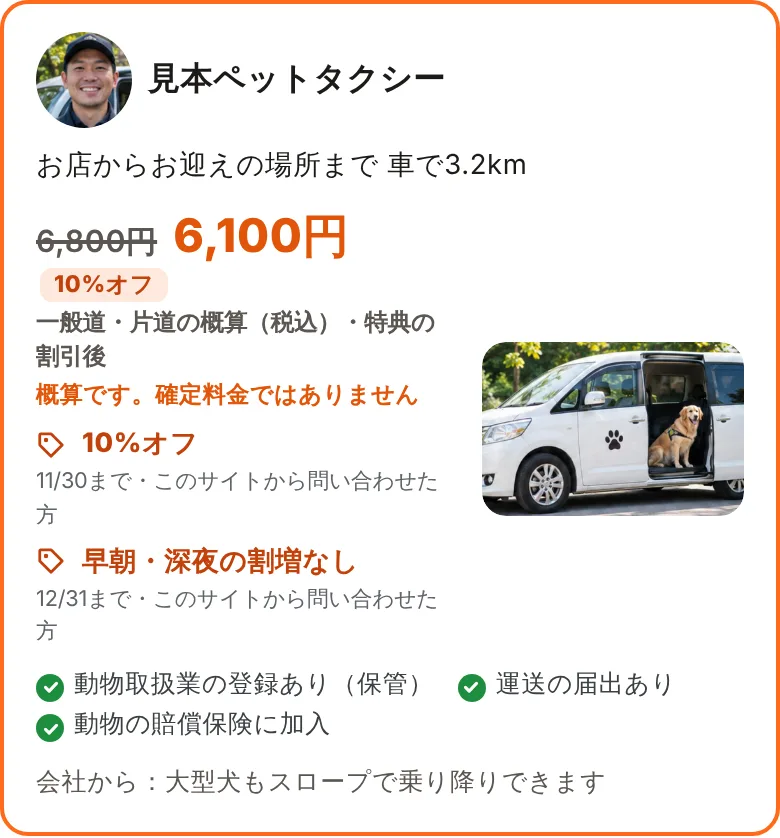
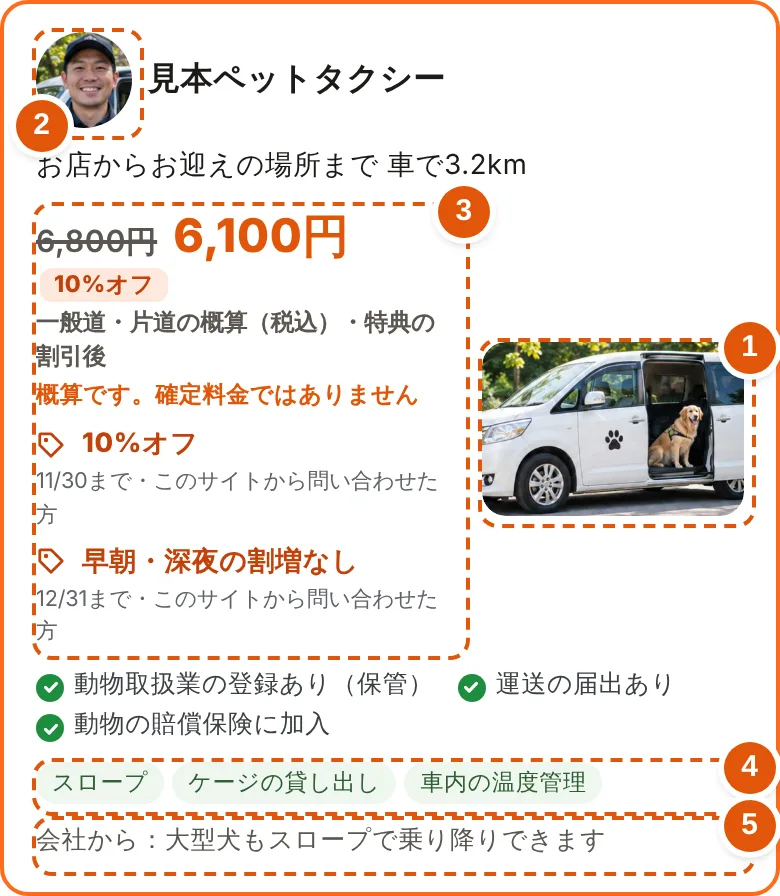
[C] 掲載情報：特典ごとに期間・大事な文を強調・カードの見本に番号の印（各項目の見出しと対応） (#564)
Claude-Session: https://claude.ai/code/session_01Tf5d8bmUrdGt6LBNfHhUyj

diff --git a/partner/listing/index.html b/partner/listing/index.html
@@ -40,7 +40,7 @@
 <main>
 <section class="area-hero"><div class="wrap"><h1>掲載の決まり<small style="display:block;font-size:.95rem;color:var(--o-d)">提携しているペットタクシー会社さま向け</small></h1><p class="lede">掲載情報のページで足せるものと、載せられないものをまとめました。お客さまが安心してくらべられるように、どの会社さまにも同じ決まりをお願いしています。</p></div></section>
 <section><div class="wrap prose terms">
-<h2>ご利用の条件に合う会社さま</h2><ul><li>当サイトと提携している会社さまだけがお使いいただけます。</li><li>入るときは、ご登録のメールアドレスにログインのリンクをお送りします（24時間だけ使えます。パスワードはいりません）。リンクはほかの方に渡さないでください。</li><li>お送りいただいた内容は、ご登録のメールアドレスにもお知らせします。お心当たりのない内容があれば、そのメールにご返信ください。</li></ul><h2>載せられるもの</h2><ul><li><b>写真</b>：5枚まで（お送りいただけるのは1日10枚まで）。車の外・車の中・ケージや設備・運転手・お店から種類を選んでお送りください。運転手の写真は正方形で、会社名の横に丸く出ます（写っている方ご本人の了解が必要です）。</li><li><b>特典</b>：割引は「◯%オフ（5〜30%）」か「◯円オフ（100〜5,000円）」のどちらか1つ。そのほかに「早朝・深夜の割増なし」「ケージの貸し出し無料」「前日までのキャンセル無料」をチェックで選べます。期間（いつから・いつまで）を入れてください。カードには「◯/◯まで」と出て、過ぎると自動で消えます。</li><li><b>設備・できること</b>：ケージの貸し出し・スロープ・担架・ペットシーツなどから選んでください。</li><li><b>お支払い方法</b>：現金・クレジットカード・電子マネー・QRコード決済・銀行振込から、使えるものを選んでください。運営者が確かめてから表示を直します。</li><li><b>許可・資格・保険</b>：動物取扱業の登録・運送の届出・動物の賠償保険・資格から選んでください。登録・届出・許可は番号が必要です。運営者が番号を確かめてから表示します。</li><li><b>ひとこと</b>：60字までです。</li></ul><h2>ここでは受け付けないもの</h2><ul><li>一緒に乗れる人数・頭数・お迎えの範囲・営業時間など、お客さまの候補に出すかどうかを決める内容は、このページでは変えられません。変わったときは運営者にメールでお知らせください。</li></ul><h2>特典のお約束</h2><ul><li>特典は、当サイトから問い合わせたお客さまだけのものです。お返事の確定料金に特典を入れてからお送りください。</li><li>終わりの日を過ぎると自動で消えます。途中でやめるときは、掲載情報のページで「なし」にしてください。</li></ul><h2>載せられないもの</h2><ul><li>電話番号・LINEのID・SNS・メールアドレス・ほかの予約サイトへのリンク（写真の中の文字や車体の番号もふくみます）</li><li>「地域最安」「No.1」「日本一」などのくらべる言い方や、根拠をお示しいただけない数字（実績◯件・24時間など）</li><li>写真やひとことの中で、もとの値段に線を引くような見せ方、期限のない特典、「◯円から」「◯円まで」（割引のある特典は、このサイトが公式の料金表をもとにした概算に線を引いて、割引後の概算を並べて表示します）</li><li>ほかの会社さまの名前、口コミの書き写し、病気が治る・安全を約束するような言い方</li><li>ペットを荷物のように見せる写真や言い方</li><li>ほかの方が撮った写真・素材集の写真・AIで作った写真、ご本人の了解のない方の顔（顔が写ってよいのは「運転手」の写真だけです）</li><li>ナンバープレートが読める写真</li></ul><h2>写真の決まり</h2><ul><li>ご自身（自社）で撮った、実際の車・設備・お店の写真をお送りください。送るときに「載せる権利があります」にチェックしていただきます。</li><li>スマホで撮った写真を、そのままお送りください。大きさや形はこちらで合わせます（カードの形に切り抜いた見本をお見せし、位置は動かせます。撮った場所などの情報は消えます）。車・車の中・お店はスマホを横向きに、運転手は縦のまま顔が真ん中になるように撮ってください。LINEなどで受け取った写真やスクリーンショットは小さくて使えないことがあります。</li><li>1枚めは「車の外」がおすすめです。カードの最初に出ます。昼の明るい場所で、背景にほかの車・人・看板が入らないように撮ってください。</li><li>明るさの調整はかまいません。文字やスタンプを入れたもの、形を変える加工はご遠慮ください。</li></ul><h2>確かめてから公開します</h2><ul><li>お送りいただいた内容は、運営者が確かめてから候補のカードに出します。</li><li>決まりに合わないときは、掲載情報のページの「審査の状況」に理由を出します。直してもう一度お送りください。</li><li>提携が終わったときや、事実と違うことがわかったときは、掲載をやめることがあります。</li></ul>
+<h2>ご利用の条件に合う会社さま</h2><ul><li>当サイトと提携している会社さまだけがお使いいただけます。</li><li>入るときは、ご登録のメールアドレスにログインのリンクをお送りします（24時間だけ使えます。パスワードはいりません）。リンクはほかの方に渡さないでください。</li><li>お送りいただいた内容は、ご登録のメールアドレスにもお知らせします。お心当たりのない内容があれば、そのメールにご返信ください。</li></ul><h2>載せられるもの</h2><ul><li><b>写真</b>：5枚まで（お送りいただけるのは1日10枚まで）。車の外・車の中・ケージや設備・運転手・お店から種類を選んでお送りください。運転手の写真は正方形で、会社名の横に丸く出ます（写っている方ご本人の了解が必要です）。</li><li><b>特典</b>：「◯%オフ（5〜30%）」「◯円オフ（100〜5,000円）」「早朝・深夜の割増なし」「ケージの貸し出し無料」「前日までのキャンセル無料」から選び、特典ごとに期間（いつから・いつまで）を入れてください。カードには「◯/◯まで」と出て、過ぎると自動で消えます。</li><li><b>設備・できること</b>：ケージの貸し出し・スロープ・担架・ペットシーツなどから選んでください。</li><li><b>お支払い方法</b>：現金・クレジットカード・電子マネー・QRコード決済・銀行振込から、使えるものを選んでください。運営者が確かめてから表示を直します。</li><li><b>許可・資格・保険</b>：動物取扱業の登録・運送の届出・動物の賠償保険・資格から選んでください。登録・届出・許可は番号が必要です。運営者が番号を確かめてから表示します。</li><li><b>ひとこと</b>：60字までです。</li></ul><h2>ここでは受け付けないもの</h2><ul><li>一緒に乗れる人数・頭数・お迎えの範囲・営業時間など、お客さまの候補に出すかどうかを決める内容は、このページでは変えられません。変わったときは運営者にメールでお知らせください。</li></ul><h2>特典のお約束</h2><ul><li>特典は、当サイトから問い合わせたお客さまだけのものです。お返事の確定料金に特典を入れてからお送りください。</li><li>終わりの日を過ぎると自動で消えます。途中でやめるときは、掲載情報のページで「なし」にしてください。</li></ul><h2>載せられないもの</h2><ul><li>電話番号・LINEのID・SNS・メールアドレス・ほかの予約サイトへのリンク（写真の中の文字や車体の番号もふくみます）</li><li>「地域最安」「No.1」「日本一」などのくらべる言い方や、根拠をお示しいただけない数字（実績◯件・24時間など）</li><li>写真やひとことの中で、もとの値段に線を引くような見せ方、期限のない特典、「◯円から」「◯円まで」（割引のある特典は、このサイトが公式の料金表をもとにした概算に線を引いて、割引後の概算を並べて表示します）</li><li>ほかの会社さまの名前、口コミの書き写し、病気が治る・安全を約束するような言い方</li><li>ペットを荷物のように見せる写真や言い方</li><li>ほかの方が撮った写真・素材集の写真・AIで作った写真、ご本人の了解のない方の顔（顔が写ってよいのは「運転手」の写真だけです）</li><li>ナンバープレートが読める写真</li></ul><h2>写真の決まり</h2><ul><li>ご自身（自社）で撮った、実際の車・設備・お店の写真をお送りください。送るときに「載せる権利があります」にチェックしていただきます。</li><li>スマホで撮った写真を、そのままお送りください。大きさや形はこちらで合わせます（カードの形に切り抜いた見本をお見せし、位置は動かせます。撮った場所などの情報は消えます）。車・車の中・お店はスマホを横向きに、運転手は縦のまま顔が真ん中になるように撮ってください。LINEなどで受け取った写真やスクリーンショットは小さくて使えないことがあります。</li><li>1枚めは「車の外」がおすすめです。カードの最初に出ます。昼の明るい場所で、背景にほかの車・人・看板が入らないように撮ってください。</li><li>明るさの調整はかまいません。文字やスタンプを入れたもの、形を変える加工はご遠慮ください。</li></ul><h2>確かめてから公開します</h2><ul><li>お送りいただいた内容は、運営者が確かめてから候補のカードに出します。</li><li>決まりに合わないときは、掲載情報のページの「審査の状況」に理由を出します。直してもう一度お送りください。</li><li>提携が終わったときや、事実と違うことがわかったときは、掲載をやめることがあります。</li></ul>
 <p class="small">2026年11月15日 制定</p>
 <p><a href="/partner/">提携のご案内にもどる</a>・<a href="/partner/terms/">提携規約</a></p>
 </div></section>

diff --git a/tools/partner_listing.py b/tools/partner_listing.py
@@ -10,7 +10,7 @@ LISTING = [
     ]),
     ("載せられるもの", [
         ("写真", "5枚まで（お送りいただけるのは1日10枚まで）。車の外・車の中・ケージや設備・運転手・お店から種類を選んでお送りください。運転手の写真は正方形で、会社名の横に丸く出ます（写っている方ご本人の了解が必要です）。"),
-        ("特典", "割引は「◯%オフ（5〜30%）」か「◯円オフ（100〜5,000円）」のどちらか1つ。そのほかに「早朝・深夜の割増なし」「ケージの貸し出し無料」「前日までのキャンセル無料」をチェックで選べます。期間（いつから・いつまで）を入れてください。カードには「◯/◯まで」と出て、過ぎると自動で消えます。"),
+        ("特典", "「◯%オフ（5〜30%）」「◯円オフ（100〜5,000円）」「早朝・深夜の割増なし」「ケージの貸し出し無料」「前日までのキャンセル無料」から選び、特典ごとに期間（いつから・いつまで）を入れてください。カードには「◯/◯まで」と出て、過ぎると自動で消えます。"),
         ("設備・できること", "ケージの貸し出し・スロープ・担架・ペットシーツなどから選んでください。"),
         ("お支払い方法", "現金・クレジットカード・電子マネー・QRコード決済・銀行振込から、使えるものを選んでください。運営者が確かめてから表示を直します。"),
         ("許可・資格・保険", "動物取扱業の登録・運送の届出・動物の賠償保険・資格から選んでください。登録・届出・許可は番号が必要です。運営者が番号を確かめてから表示します。"),

diff --git a/AGENTS.md b/AGENTS.md
@@ -87,7 +87,7 @@
 - **提携の申し込みフォームは手間を少なく**（Nori 2026-11-10「ただ面倒なだけ」「フリーアンサーをできるだけなくす」「回答の手間をできるだけ減らす」「料金の目安を出すみたいな文言もいらない」）：選ぶ欄はタップ1回のボタン（`pt_sel`・`pt_chk`）、自由記入はできるだけ置かない、なぜ聞くかの説明は書かない。必ず答えていただくのは会社名・お名前・メール・お店の場所（候補から選ぶ）・お迎えの範囲（km）・曜日・時間・料金のうかがい方（料金表のURLなら料金の質問はとばせる）・「そのほか」（ホームページ・出発できるまで・往復と長い距離の料金・許可・資格・動物取扱業の登録番号）。Nori 2026-11-10「わかればの欄も必須のほうがいい」。定額・料金の補足・ほかに伝えたいことの自由記入だけ「あれば」。控えのメール欄は「いみがわからない」でなくした。お迎えの範囲は「お店から◯kmまで」（5〜100km）から必ず選んでいただき、「もっと遠くても行く」のような範囲の決まらない答えは置かない（Nori 2026-11-12「ちゃんと対象エリアが決まるように設計して」）。行き先は「お迎えの都道府県の中だけ／距離に上限がある／全国どこへでも行ける」。お迎えできる都道府県はお店の場所と範囲から自動で選ぶ。動きは `tools/partner_form.js`。提携の返事では、料金表を読んで入れ、割増のところだけ会社に確かめる（Nori 2026-11-10「返信は割り増しのところだけ確認してあとは確認なしでいい」）。
 - **会社にメールを送る直前に、そのスレッドの最新のやりとりを読み直す**（Nori 2026-11-12「今後、ちゃんと確認することをルールにして」）：Nori さんが自分で返信していることがあるので、送る直前に、Nori さんが送ったものも含めて最新を読み、答え済みのことや重なる内容は削ってから送る。Mac に送信を頼むときも同じ指示を入れる。
 - **提携の確認ページ**（Nori 2026-11-14「事業者のサイトの内容を入れた状態のフォームを送る」）：`https://pet.shiokonbu.com/go/?a=pconf&t=<見本のリンクと同じ合言葉>`（`pconfUrl_`）を開くと、`booking/Code.gs` の `PCONF` に入れた公式サイトの内容（サイトより／ご確認ください／入力してください の印つき）と料金の例が出て、会社が直して送る。答えは予約シートの「提携の確認」タブと運営者へのメールに残すだけで、提携先シートは書き換えない（受付を始めるのは運営者が確かめてから）。いまはふわふわペットタクシー（D5598693）だけ。設計は 2026-11-14 の「事業者フォームの設計し直し案」。
-- **掲載情報の追加ページ**（Nori 2026-11-15「事業者側に、情報を追加的に入れてもらえる画面」「なんでも載せられるようにはしない」「いっかいすすめてみて」）：提携している会社（`OPEN_PARTNERS`、`PINFO_STOP` に入れた会社は除く）だけが、写真（5枚まで・1日10枚まで）・特典（「◯%オフ」「◯円オフ」の欄のどちらか1つと、チェックで選ぶ「早朝・深夜の割増なし」「ケージの貸し出し無料」「前日までのキャンセル無料」（`PINFO_OFFER_X`）、期間はいつから・いつまで。Nori 2026-11-15「わかりやすいカタチ」「何%オフの欄、何円オフの欄を作っておいてあとは期間を入れられるように」。`PINFO_OFFERS`）・設備・お支払い方法・許可や資格（登録・届出・許可は番号が必須）・ひとこと（60字）を送れる（臨時のお休みは Nori 2026-11-15「いらない」でなくした）。画面は写真・特典が上、設備・ひとこと、いちばん下に「運営者へのお知らせ」（お支払い方法・許可や資格）。人数・頭数・お迎えの範囲・営業時間など候補選びに使うことはここでは受けない（申し込みの答えと食い違わないように。Nori 2026-11-15「項目はそれでいいのかな？」で見直し）。お支払い方法と許可・資格はカードに自動では出さず、運営者が確かめて `PROVIDER`・`licenses.json` に入れる。入り方は「メールでログイン」：`/go/?a=pinfo`（会社には `pinfoUrl_`、「見本リンク」タブの6列目）でログインのリンクを頼むと、提携先シートの登録メールに24時間だけ使えるリンク（`pinfoSession_`、5分に1回まで）が届く。見本リンクと同じ合言葉だけでは中に入れない。運営者だけが見られる見本（ログインのあとと同じ画面、何も保存しない）は `?a=pinfo_view&k=…`（`pinfoViewPage_`。リンクは `/go/?a=pinfo_view&send=1` を開くと運営者のメールに届く）。送ったものは会社の登録メールにも受付のメール（`pinfoReceipt_`）。決まりは `/partner/listing/`（本文 `tools/partner_listing.py`、数字は `booking/Code.gs` の `PINFO_*` と同じにする）。電話番号・URL・SNS・くらべる言い方などは `pinfoCheck_` が止める。送られたものは予約シートの「掲載情報」タブに「確認待ち」で残り、運営者がメールのリンク（`a=pinfo_ok`）で公開／直してください。写真はカードの枠と同じ横3：縦2に端末で切り抜き（見本を見せ、位置はつまみで動かせる）、1500×1000pxのJPEGにして（`go/index.html` の `upload`。切り抜いたあと横900px未満は受けない。Nori 2026-11-15「画像サイズとかは？背景の色とか」。事業者はスマホで撮るので、説明は「スマホで撮ったまま選ぶ・車は横向き・運転手は縦」だけにし、pxの数字は見せない。Nori 2026-11-15「サイズとかちゃんと指定したやつは送ってこれないと思う」）。「運転手」の写真だけは正方形（800×800、450px以上）で顔が写ってよく（ご本人の了解のチェックが要る。Nori 2026-11-15「車の写真と運転手の写真も」）、カードでは会社名の横に丸く出す（`pinfoPublic_` の `driver`）運営者のドライブのフォルダに入る。提携をやめた会社は `PINFO_STOP` に入れる。「公開」にした行は `pinfoPublic_`（10分の控え、審査のたびに消す）が受付中の会社の候補カード（`quoteCards_` の `extra`）に入れ、ページの `buildCard` が写真（検索広告のように、料金・特典の右に横長の小さな枠（カードの幅の4割）。横にスワイプ、2枚以上なら小さな点。Nori 2026-11-15「このくらいの写真は？いちもふくめて」と見本の画像。写真のない会社は枠を出さない）・特典（検索広告のプロモーション表示のように、荷札のアイコン＋太字「10%オフ」＋小さく「11/30まで・このサイトから問い合わせた方」。Nori 2026-11-15「グーグルの検索広告をイメージして」。終わりの日を過ぎたら出さない。金額で計算できる特典（%オフ・円オフ・往復の円オフ・早朝深夜の割増なし）がこの依頼に当てはまるときは、もとの概算に線を引いて割引後の概算を並べる（いちばん安くなる1つだけ、「〜」つきの概算には付けない。`offerDeal`。Nori 2026-11-15「元の金額が消されて、安い料金が併記されてる感じがいい」。もとの金額は会社の公式の料金表での概算＝ふだんの料金なので、つり上げた比較の金額にはしない）・設備（特長のタグ）・ひとこと（「会社から：…」）を出す。写真は公開にしたときだけリンクを知っている人が見られる共有にし、直してくださいで戻す。
+- **掲載情報の追加ページ**（Nori 2026-11-15「事業者側に、情報を追加的に入れてもらえる画面」「なんでも載せられるようにはしない」「いっかいすすめてみて」）：提携している会社（`OPEN_PARTNERS`、`PINFO_STOP` に入れた会社は除く）だけが、写真（5枚まで・1日10枚まで）・特典（「◯%オフ」「◯円オフ」の数字の欄と、印を付ける「早朝・深夜の割増なし」「ケージの貸し出し無料」「前日までのキャンセル無料」（`PINFO_OFFER_FORM`）。特典ごとに期間（いつから・いつまで）。Nori 2026-11-15「わかりやすいカタチ」「オフとか何円引きはそれぞれ期間入れられるようにして」。`PINFO_OFFERS`。画面の上にカードの見本（`img/partner/card-sample.jpg`）を番号1〜5の印つきで出し、各項目の見出しに同じ番号と「カードの◯◯が変わります」を付け、大事な文は色つきの太字（`pinfoMark_`・`pinfoWhere_`・`pinfoEm_`。Nori 2026-11-15「カードのどこが今回の入力でかわるのかも印つけたりして」））・設備・お支払い方法・許可や資格（登録・届出・許可は番号が必須）・ひとこと（60字）を送れる（臨時のお休みは Nori 2026-11-15「いらない」でなくした）。画面は写真・特典が上、設備・ひとこと、いちばん下に「運営者へのお知らせ」（お支払い方法・許可や資格）。人数・頭数・お迎えの範囲・営業時間など候補選びに使うことはここでは受けない（申し込みの答えと食い違わないように。Nori 2026-11-15「項目はそれでいいのかな？」で見直し）。お支払い方法と許可・資格はカードに自動では出さず、運営者が確かめて `PROVIDER`・`licenses.json` に入れる。入り方は「メールでログイン」：`/go/?a=pinfo`（会社には `pinfoUrl_`、「見本リンク」タブの6列目）でログインのリンクを頼むと、提携先シートの登録メールに24時間だけ使えるリンク（`pinfoSession_`、5分に1回まで）が届く。見本リンクと同じ合言葉だけでは中に入れない。運営者だけが見られる見本（ログインのあとと同じ画面、何も保存しない）は `?a=pinfo_view&k=…`（`pinfoViewPage_`。リンクは `/go/?a=pinfo_view&send=1` を開くと運営者のメールに届く）。送ったものは会社の登録メールにも受付のメール（`pinfoReceipt_`）。決まりは `/partner/listing/`（本文 `tools/partner_listing.py`、数字は `booking/Code.gs` の `PINFO_*` と同じにする）。電話番号・URL・SNS・くらべる言い方などは `pinfoCheck_` が止める。送られたものは予約シートの「掲載情報」タブに「確認待ち」で残り、運営者がメールのリンク（`a=pinfo_ok`）で公開／直してください。写真はカードの枠と同じ横3：縦2に端末で切り抜き（見本を見せ、位置はつまみで動かせる）、1500×1000pxのJPEGにして（`go/index.html` の `upload`。切り抜いたあと横900px未満は受けない。Nori 2026-11-15「画像サイズとかは？背景の色とか」。事業者はスマホで撮るので、説明は「スマホで撮ったまま選ぶ・車は横向き・運転手は縦」だけにし、pxの数字は見せない。Nori 2026-11-15「サイズとかちゃんと指定したやつは送ってこれないと思う」）。「運転手」の写真だけは正方形（800×800、450px以上）で顔が写ってよく（ご本人の了解のチェックが要る。Nori 2026-11-15「車の写真と運転手の写真も」）、カードでは会社名の横に丸く出す（`pinfoPublic_` の `driver`）運営者のドライブのフォルダに入る。提携をやめた会社は `PINFO_STOP` に入れる。「公開」にした行は `pinfoPublic_`（10分の控え、審査のたびに消す）が受付中の会社の候補カード（`quoteCards_` の `extra`）に入れ、ページの `buildCard` が写真（検索広告のように、料金・特典の右に横長の小さな枠（カードの幅の4割）。横にスワイプ、2枚以上なら小さな点。Nori 2026-11-15「このくらいの写真は？いちもふくめて」と見本の画像。写真のない会社は枠を出さない）・特典（検索広告のプロモーション表示のように、荷札のアイコン＋太字「10%オフ」＋小さく「11/30まで・このサイトから問い合わせた方」。Nori 2026-11-15「グーグルの検索広告をイメージして」。終わりの日を過ぎたら出さない。金額で計算できる特典（%オフ・円オフ・往復の円オフ・早朝深夜の割増なし）がこの依頼に当てはまるときは、もとの概算に線を引いて割引後の概算を並べる（いちばん安くなる1つだけ、「〜」つきの概算には付けない。`offerDeal`。Nori 2026-11-15「元の金額が消されて、安い料金が併記されてる感じがいい」。もとの金額は会社の公式の料金表での概算＝ふだんの料金なので、つり上げた比較の金額にはしない）・設備（特長のタグ）・ひとこと（「会社から：…」）を出す。写真は公開にしたときだけリンクを知っている人が見られる共有にし、直してくださいで戻す。
 - **白ナンバーの会社とは提携しない**（Nori 2026-11-12「白タクはじゃあ提携しないことにしよう」）：受付を始めるのは、申し込みや公式サイトで黒ナンバー（貨物軽自動車の届出）か緑ナンバー（タクシー会社など）と確かめられた会社だけ。分からない会社は、受付を始める前に確かめる。
 - **提携の申し込みは提携先シートに自動で入る**（Nori 2026-11-10「お客さまのフォームのあらゆる組み合わせに、マッチングさせられる事業者の情報を得たい」）：`/partner/` のフォームは答えを項目ごとに `apply` で送り、`booking/Code.gs` の `applyPartner_` が提携先シートに新しいID・受付中×で1行を足す（手で写さない。提携を始めるときに受付中を○にして `OPEN_PARTNERS` に入れる）。しぼりこみ（`checks_`・`moreChecks_`・`careChecks_`）は、行き先までの距離・大型犬の頭数ごとに一緒に乗れる大人の人数（Nori 2026-11-10「大型犬4頭乗せられて、さらに大人2人乗せられるってほんと？組み合わせが心配」。フォームでは聞かず（Nori 2026-11-10「大型犬なら何頭まで乗せられるかとシンプルにしよう」）、「大型犬は何頭まで」と「一緒に乗れる飼い主さん」だけを聞く。前に答えた会社の頭数ごとの列はそのまま使う）。大型犬は30kg以上（`CONFIG.LARGE_DOG_KG`、Nori 2026-11-10）。介護は「介護が必要な大型犬を運べるか」だけを聞き、それだけでしぼる（小さい子は飼い主さんが抱っこできるので問わない。Nori 2026-11-10。`careBig`）・経由地・ワクチンの証明・介護まで使う。「受けられない」は候補から外し、「相談」と空欄は引き受けるときに確かめる。違う種類の子・かむ子・短頭種・うつる病気・受け渡しは聞かない（Nori 2026-11-10「いらない」）。フォームに項目を足したら、提携先シートの列・`applyPartner_`・`checks_` もそろえる。
 - 返事の時間（「60分以内」など）はサイトで約束しない（Nori 2026-10-31）。関東だけに見える書き方もしない。
